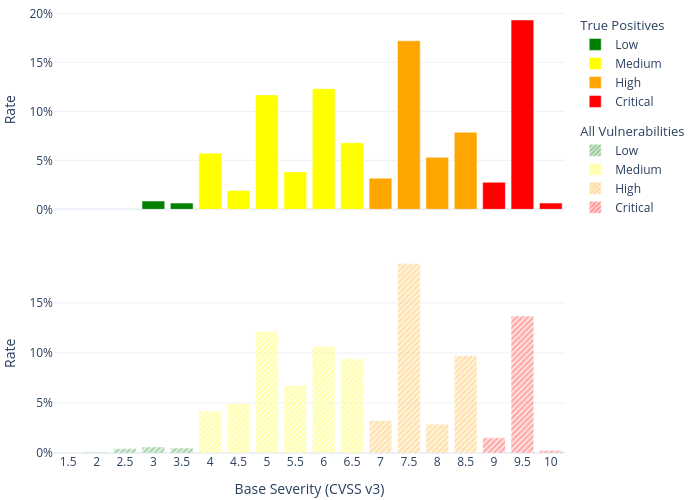
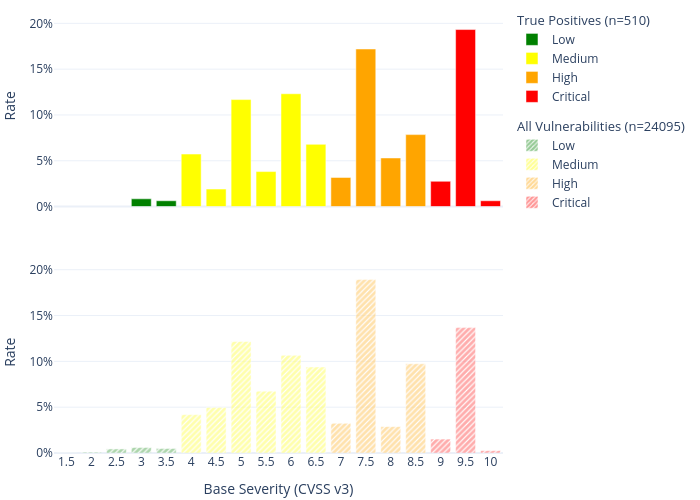
improve CVE severity graph

diff --git a/eyeballvul_experiments/results.py b/eyeballvul_experiments/results.py
@@ -754,6 +754,9 @@ def plot_cve_severities(instruction_template_hash: str, scoring_model: str):
     )
     all_df = all_df.sort_values("severity", ascending=True)
 
+    n_tp = len(tp_vulns)
+    n_all = len(all_vulns)
+
     for category, color in severity_colors.items():
         tp_category = tp_df[tp_df["severity"].apply(get_severity_category) == category]
         all_category = all_df[all_df["severity"].apply(get_severity_category) == category]
@@ -765,7 +768,7 @@ def plot_cve_severities(instruction_template_hash: str, scoring_model: str):
                     name=category,
                     marker_color=color,
                     legendgroup="tp",
-                    legendgrouptitle_text="True Positives",
+                    legendgrouptitle_text=f"True Positives (n={n_tp})",
                 ),
                 row=1,
                 col=1,
@@ -790,7 +793,7 @@ def plot_cve_severities(instruction_template_hash: str, scoring_model: str):
                         },
                     },
                     legendgroup="all",
-                    legendgrouptitle_text="All Vulnerabilities",
+                    legendgrouptitle_text=f"All Vulnerabilities (n={n_all})",
                 ),
                 row=2,
                 col=1,
@@ -799,8 +802,8 @@ def plot_cve_severities(instruction_template_hash: str, scoring_model: str):
     fig.update_layout(template="plotly_white", margin=dict(t=5, l=5, r=5, b=5))
 
     fig.update_xaxes(title_text="Base Severity (CVSS v3)", nticks=nticks, row=2, col=1)
-    fig.update_yaxes(title_text="Rate", row=1, col=1, tickformat=",.0%")
-    fig.update_yaxes(title_text="Rate", row=2, col=1, tickformat=",.0%")
+    fig.update_yaxes(title_text="Rate", row=1, col=1, tickformat=",.0%", range=[0, 0.22])
+    fig.update_yaxes(title_text="Rate", row=2, col=1, tickformat=",.0%", range=[0, 0.22])
 
     fig.write_image(Config.paths.plots / "cve_severities.png")
 
